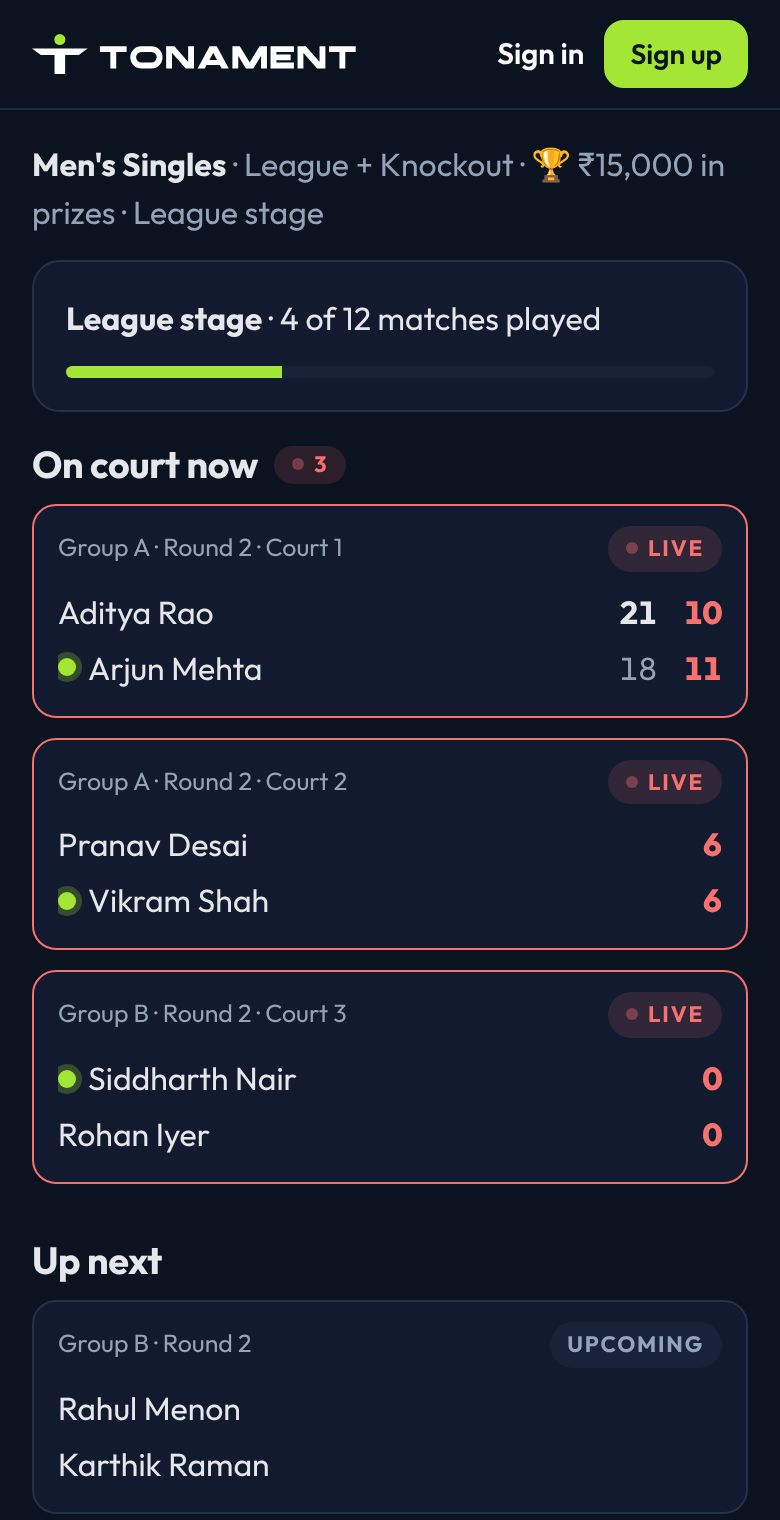
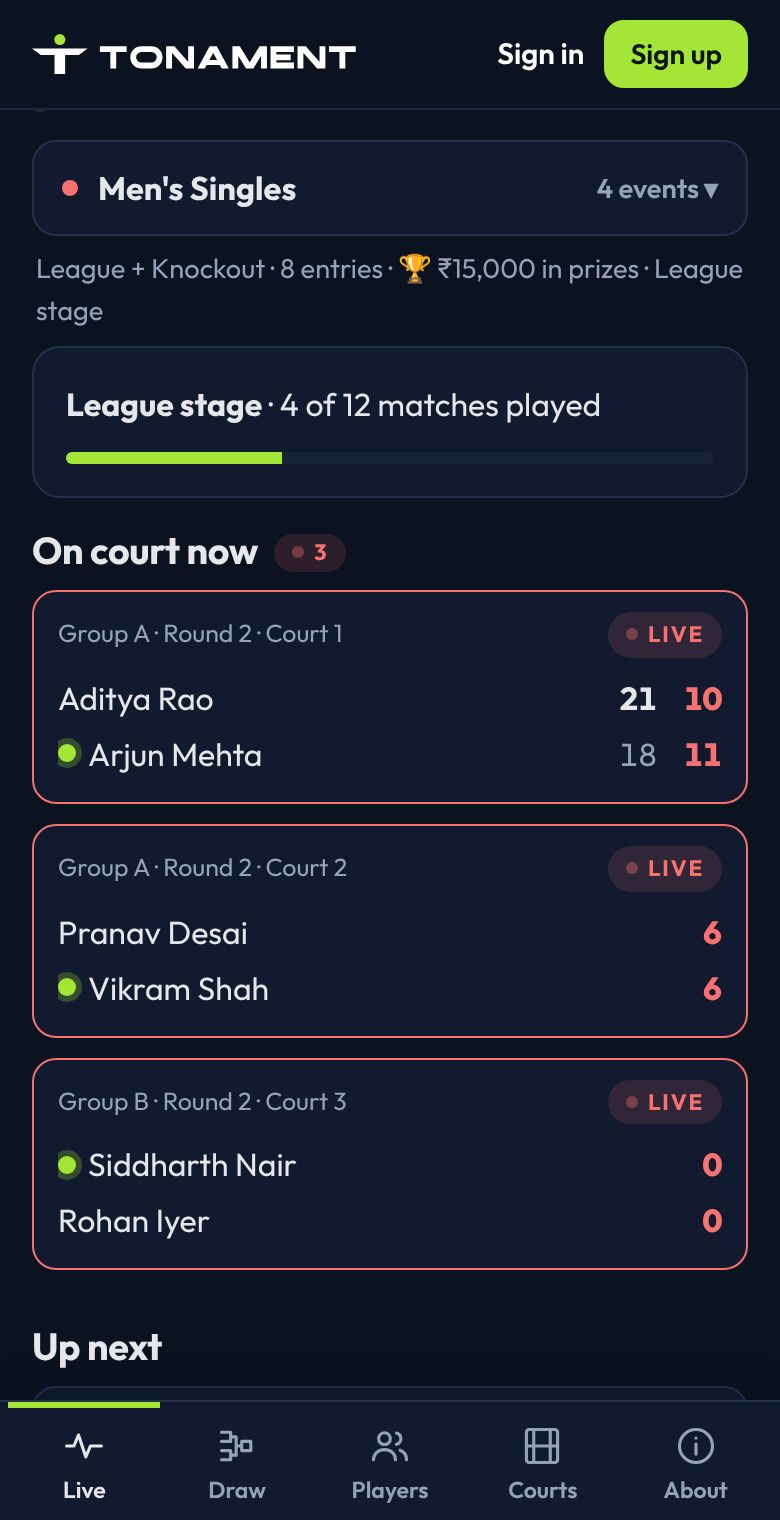
Guide screenshots for the new UI
- Re-shoot every guide image (both themes) with the Setup tab, one-line rows,
  the Draw tab, the event switcher and the bottom tab bar.
- New shots: setup, rowmenu (the ⋯ sheet), today (Next step), search, and
  group-admin (a group admin's Next step).
- How it works, Features and the entry-fees post describe the new UI.

Claude-Session: https://claude.ai/code/session_01DiU74KJ3FzPN7SFDZoyamV

diff --git a/public/how-it-works.html b/public/how-it-works.html
@@ -58,9 +58,9 @@
         <div class="step-text">
           <span class="step-no" aria-hidden="true">1</span>
           <h3>Create your tournament</h3>
-          <p>Three quick taps: pick the sport, pick your events — Men&#x27;s Singles, Mixed Doubles, U19, teams — then the name and date. A checklist on your tournament page walks you through the rest when you&#x27;re ready: venue, format, entry fee, prizes, courts and publishing.</p>
+          <p>Three quick taps: pick the sport, pick your events — Men&#x27;s Singles, Mixed Doubles, U19, teams — then the name and date. A checklist on your tournament page shows the next thing to do, and every setting — venue, format, entry fee, prizes, courts, your team — lives on one Setup tab.</p>
         </div>
-        <div class="step-shots"><figure class="shot"><img class="on-dark" src="/guide/create-dark.jpg" width="390" height="760" loading="lazy" alt="Creating a tournament: choosing the events with a tap"><img class="on-light" src="/guide/create-light.jpg" width="390" height="760" loading="lazy" alt="Creating a tournament: choosing the events with a tap"></figure></div>
+        <div class="step-shots"><figure class="shot"><img class="on-dark" src="/guide/create-dark.jpg" width="390" height="760" loading="lazy" alt="Creating a tournament: choosing the events with a tap"><img class="on-light" src="/guide/create-light.jpg" width="390" height="760" loading="lazy" alt="Creating a tournament: choosing the events with a tap"></figure><figure class="shot"><img class="on-dark" src="/guide/setup-dark.jpg" width="390" height="760" loading="lazy" alt="The Setup tab: format and scoring, with the event&#x27;s details folded away"><img class="on-light" src="/guide/setup-light.jpg" width="390" height="760" loading="lazy" alt="The Setup tab: format and scoring, with the event&#x27;s details folded away"></figure></div>
       </li>
       <li class="step">
         <div class="step-text">
@@ -74,15 +74,15 @@
         <div class="step-text">
           <span class="step-no" aria-hidden="true">3</span>
           <h3>Manage entries</h3>
-          <p>See who&#x27;s in, confirm places from the waitlist, pair up players looking for a doubles partner, and tick players in as they arrive. List order is the seeding.</p>
+          <p>See who&#x27;s in, confirm places from the waitlist, pair up players looking for a doubles partner, and tick players in as they arrive. One line per player: tap ⋯ to change the seeding, link their account or remove them — and Undo if you tapped the wrong one.</p>
         </div>
-        <div class="step-shots"><figure class="shot"><img class="on-dark" src="/guide/entries-dark.jpg" width="390" height="760" loading="lazy" alt="The organiser&#x27;s entry list with check-in ticks and a waitlisted player"><img class="on-light" src="/guide/entries-light.jpg" width="390" height="760" loading="lazy" alt="The organiser&#x27;s entry list with check-in ticks and a waitlisted player"></figure></div>
+        <div class="step-shots"><figure class="shot"><img class="on-dark" src="/guide/entries-dark.jpg" width="390" height="760" loading="lazy" alt="The organiser&#x27;s entry list with check-in ticks and a waitlisted player"><img class="on-light" src="/guide/entries-light.jpg" width="390" height="760" loading="lazy" alt="The organiser&#x27;s entry list with check-in ticks and a waitlisted player"></figure><figure class="shot"><img class="on-dark" src="/guide/rowmenu-dark.jpg" width="390" height="760" loading="lazy" alt="The ⋯ menu on a player: link players, move up or down, remove"><img class="on-light" src="/guide/rowmenu-light.jpg" width="390" height="760" loading="lazy" alt="The ⋯ menu on a player: link players, move up or down, remove"></figure></div>
       </li>
       <li class="step">
         <div class="step-text">
           <span class="step-no" aria-hidden="true">4</span>
           <h3>Make the draw</h3>
-          <p>Choose round-robin groups that feed a knockout, a league, or a straight knockout — the groups, fixtures and bracket are made in one tap, with byes for top seeds.</p>
+          <p>Choose round-robin groups that feed a knockout, a league, or a straight knockout — the groups, fixtures and bracket are made in one tap, with byes for top seeds, and sit together on the Draw tab.</p>
         </div>
         <div class="step-shots"><figure class="shot"><img class="on-dark" src="/guide/groups-dark.jpg" width="390" height="760" loading="lazy" alt="A group table with standings and fixtures"><img class="on-light" src="/guide/groups-light.jpg" width="390" height="760" loading="lazy" alt="A group table with standings and fixtures"></figure><figure class="shot"><img class="on-dark" src="/guide/bracket-dark.jpg" width="390" height="600" loading="lazy" alt="A knockout bracket with results"><img class="on-light" src="/guide/bracket-light.jpg" width="390" height="600" loading="lazy" alt="A knockout bracket with results"></figure></div>
       </li>
@@ -90,9 +90,9 @@
         <div class="step-text">
           <span class="step-no" aria-hidden="true">5</span>
           <h3>Run the courts</h3>
-          <p>Set up your courts and Tonament keeps one order of play across every event: call the next match to a free court in one tap, or let it call matches automatically. Players in two events are never called to two courts at once.</p>
+          <p>Set up your courts and Tonament keeps one order of play across every event: call the next match to a free court in one tap, or let it call matches automatically. Players in two events are never called to two courts at once. On the Live tab, a Next step card always shows what to do now — call a match, draw the knockout, start the next event.</p>
         </div>
-        <div class="step-shots"><figure class="shot"><img class="on-dark" src="/guide/courts-dark.jpg" width="390" height="760" loading="lazy" alt="The Courts tab: what&#x27;s on each court and the order of play"><img class="on-light" src="/guide/courts-light.jpg" width="390" height="760" loading="lazy" alt="The Courts tab: what&#x27;s on each court and the order of play"></figure></div>
+        <div class="step-shots"><figure class="shot"><img class="on-dark" src="/guide/courts-dark.jpg" width="390" height="760" loading="lazy" alt="The Courts tab: what&#x27;s on each court and the order of play"><img class="on-light" src="/guide/courts-light.jpg" width="390" height="760" loading="lazy" alt="The Courts tab: what&#x27;s on each court and the order of play"></figure><figure class="shot"><img class="on-dark" src="/guide/today-dark.jpg" width="390" height="760" loading="lazy" alt="The Next step card: Court 4 is free, call the next match"><img class="on-light" src="/guide/today-light.jpg" width="390" height="760" loading="lazy" alt="The Next step card: Court 4 is free, call the next match"></figure></div>
       </li>
       <li class="step">
         <div class="step-text">
@@ -116,12 +116,12 @@
           <p>Create a free account once, then enter in seconds: your name is filled in, add a partner for doubles — or ask to be paired with someone.</p>
           <span class="step-no" aria-hidden="true">3</span>
           <h3>Follow your matches</h3>
-          <p>On the day, see the order of play, when you're likely on and which court, and follow every point live.</p>
+          <p>On the day, tap 🔍 and type your name to see your matches — live, next and played — when you're likely on and which court, and follow every point live.</p>
           <span class="step-no" aria-hidden="true">4</span>
           <h3>Keep track</h3>
           <p>"My entries" on the home page shows every tournament you've entered and where your entry stands. Plans changed? Withdraw before the draw.</p>
         </div>
-        <div class="step-shots"><figure class="shot"><img class="on-dark" src="/guide/enter-dark.jpg" width="390" height="760" loading="lazy" alt="A player entering doubles with their partner"><img class="on-light" src="/guide/enter-light.jpg" width="390" height="760" loading="lazy" alt="A player entering doubles with their partner"></figure></div>
+        <div class="step-shots"><figure class="shot"><img class="on-dark" src="/guide/enter-dark.jpg" width="390" height="760" loading="lazy" alt="A player entering doubles with their partner"><img class="on-light" src="/guide/enter-light.jpg" width="390" height="760" loading="lazy" alt="A player entering doubles with their partner"></figure><figure class="shot"><img class="on-dark" src="/guide/search-dark.jpg" width="390" height="760" loading="lazy" alt="Search: a player&#x27;s live, upcoming and played matches"><img class="on-light" src="/guide/search-light.jpg" width="390" height="760" loading="lazy" alt="Search: a player&#x27;s live, upcoming and played matches"></figure></div>
       </li>
     </ol>
 

diff --git a/public/features.html b/public/features.html
@@ -94,21 +94,21 @@
         <div class="step-text">
           <p class="eyebrow">New · On the day</p>
           <h2>Late players? No problem.</h2>
-          <p>Tap <strong>Not here</strong> and their match waits while the next ready match goes on court; <strong>Here ✓</strong> brings them back. Never came? Give the walkover. Injured mid-match? Retire, with the score kept.</p>
+          <p>A <strong>Next step</strong> card on the Live tab always shows what to do now — call the next match to a free court, draw the knockout, start the next event. Tap <strong>Not here</strong> and their match waits while the next ready match goes on court; <strong>Here ✓</strong> brings them back. Never came? Give the walkover. Injured mid-match? Retire, with the score kept.</p>
           <p>A substitute partner is a rename. A pair who entered but missed the draw joins a group with catch-up matches, and walk-ins pay by UPI or cash at the desk — the order of play adjusts itself every time.</p>
           <p><a href="/blog/running-tournament-day">Running the day, step by step →</a></p>
         </div>
-        <div class="step-shots"><figure class="shot"><img class="on-dark" src="/guide/onday-dark.jpg" width="390" height="760" loading="lazy" alt="Courts and the order of play: a pair marked not here yet waits, with Here and Walkover buttons"><img class="on-light" src="/guide/onday-light.jpg" width="390" height="760" loading="lazy" alt="Courts and the order of play: a pair marked not here yet waits, with Here and Walkover buttons"></figure></div>
+        <div class="step-shots"><figure class="shot"><img class="on-dark" src="/guide/onday-dark.jpg" width="390" height="760" loading="lazy" alt="Courts and the order of play: a pair marked not here yet waits, with Here and Walkover buttons"><img class="on-light" src="/guide/onday-light.jpg" width="390" height="760" loading="lazy" alt="Courts and the order of play: a pair marked not here yet waits, with Here and Walkover buttons"></figure><figure class="shot"><img class="on-dark" src="/guide/today-dark.jpg" width="390" height="760" loading="lazy" alt="The Next step card: Court 4 is free, call the next match"><img class="on-light" src="/guide/today-light.jpg" width="390" height="760" loading="lazy" alt="The Next step card: Court 4 is free, call the next match"></figure></div>
       </li>
       <li class="step" id="groups">
         <div class="step-text">
           <p class="eyebrow">New · Groups</p>
           <h2>Your daily games, sorted</h2>
           <p>For the people you play with every day. Share one link in your WhatsApp group: players tap "I'm in" and say when they're coming, so everyone sees how many will be there and when.</p>
-          <p>At the court they check in and get fair games picked for them — fewest games first, balanced teams, new partners. Score live or add the result at the end; the other side confirms it, so there are no arguments, and every confirmed game moves the group leaderboard.</p>
+          <p>At the court they check in (or the admin marks who's here) and get fair games picked for them — fewest games first, balanced teams, new partners. Score live or add the result at the end; the other side confirms it, so there are no arguments, and every confirmed game moves the group leaderboard.</p>
           <p><strong>Venues and academies</strong> post daily slots by level — Beginners at 6, Intermediates at 7 — on their own page. Players join in one tap, and the attendance tab shows who actually turned up.</p>
         </div>
-        <div class="step-shots"><figure class="shot"><img src="/guide/group-rsvp-dark.jpg" width="358" height="427" loading="lazy" alt="A group session: I'm in, coming at 7:30 pm, and who else is coming"></figure><figure class="shot"><img src="/guide/venue-slots-dark.jpg" width="390" height="565" loading="lazy" alt="A venue page with daily slots for beginners, intermediates and advanced players"></figure></div>
+        <div class="step-shots"><figure class="shot"><img src="/guide/group-rsvp-dark.jpg" width="358" height="427" loading="lazy" alt="A group session: I'm in, coming at 7:30 pm, and who else is coming"></figure><figure class="shot"><img src="/guide/venue-slots-dark.jpg" width="390" height="565" loading="lazy" alt="A venue page with daily slots for beginners, intermediates and advanced players"></figure><figure class="shot"><img class="on-dark" src="/guide/group-admin-dark.jpg" width="390" height="760" loading="lazy" alt="A group admin&#x27;s Next step: Court 1 is free, start the suggested game"><img class="on-light" src="/guide/group-admin-light.jpg" width="390" height="760" loading="lazy" alt="A group admin&#x27;s Next step: Court 1 is free, start the suggested game"></figure></div>
       </li>
       <li class="step step-wide">
         <div class="step-text">

diff --git a/scripts/guide-shots.js b/scripts/guide-shots.js
@@ -115,6 +115,14 @@ async function main() {
     for (const side of game(i ? 'b' : 'a', 16 + i, seed++) + game(i ? 'b' : 'a', 13 + i, seed++)) await svc.rally(id, ORG, m.id, side);
   }
 
+  // A group on today with its admin: 4 players checked in, both courts free.
+  const t0 = new Date(Date.now() - 3600000);
+  const nowTime = new Intl.DateTimeFormat('en-GB', { timeZone: 'Asia/Kolkata', hour: '2-digit', minute: '2-digit', hourCycle: 'h23' }).format(t0);
+  const { slug } = await svc.groups.createGroup(ORG, { name: 'Evening Smashers', sport: 'badminton', city: 'Chennai', venue: 'Anna Nagar Indoor Arena', courts: 2, days: [0, 1, 2, 3, 4, 5, 6], time: nowTime, hours: 3, timeZone: 'Asia/Kolkata' });
+  await svc.groups.addGuests(slug, ORG, { names: ['Arjun Mehta', 'Rohan Iyer', 'Karthik Raman', 'Vikram Shah', 'Aditya Rao', 'Rahul Menon'] });
+  const g = await svc.groups.view(slug, ORG);
+  for (const r of g.leaderboard.filter((x) => x.guest).slice(0, 4)) await svc.groups.checkIn(slug, ORG, g.session.id, true, r.id);
+
   // ----- screenshots
   const shots = [];
   for (const theme of ['dark', 'light']) {
@@ -148,6 +156,20 @@ async function main() {
     // 3. Organiser's Players tab (Women's Singles, still open)
     await o.goto(`${base}/t/${id}/entries?e=${ws}`); await o.waitForSelector('.entries');
     await snap(o, 'entries', { scrollTo: '.card:has(h2:text-matches("^Entries"))', top: 70 });
+    // The ⋯ menu on a player row
+    await o.click('.entries li:nth-child(2) .more-btn'); await o.waitForSelector('.action-sheet');
+    await snap(o, 'rowmenu');
+    await o.keyboard.press('Escape');
+    // Setup: every setting in one place
+    await o.goto(`${base}/t/${id}/setup?s=format&e=${ws}`); await o.waitForSelector('.setup-nav');
+    await snap(o, 'setup', { scrollTo: '.setup-nav', top: 70 });
+    // Today: the organiser's Next step on Live
+    await o.goto(`${base}/t/${id}/live?e=${ms}`); await o.waitForSelector('.next-step');
+    await snap(o, 'today', { scrollTo: '.event-picker', top: 70 });
+    // Search: a player and their matches
+    await o.click('.t-search'); await o.fill('.search-q', 'Arjun'); await o.waitForSelector('.search-hit');
+    await snap(o, 'search');
+    await o.keyboard.press('Escape');
     // 5. Courts
     await o.goto(`${base}/t/${id}/courts`); await o.waitForSelector('.court-card');
     await snap(o, 'courts', { scrollTo: '.court-grid', top: 70 });
@@ -155,10 +177,14 @@ async function main() {
     await o.goto(`${base}/t/${id}/m/${liveId}`); await o.waitForSelector('.score-btn');
     await snap(o, 'umpire', { scrollTo: '.scoreboard', top: 60 });
     // 4. Groups and bracket
-    await o.goto(`${base}/t/${id}/groups?e=${ms}`); await o.waitForSelector('.groups-grid');
+    await o.goto(`${base}/t/${id}/draw?e=${ms}`); await o.waitForSelector('.draw-seg');
+    await o.click('.draw-seg button:has-text("Groups")'); await o.waitForSelector('.groups-grid');
     await snap(o, 'groups', { scrollTo: '.groups-grid', top: 70 });
-    await o.goto(`${base}/t/${id}/bracket?e=${xd}`); await o.waitForSelector('.bracket, .rounds, .b-round');
-    await snap(o, 'bracket', { scrollTo: '.event-title', top: 70, height: 600 });
+    await o.goto(`${base}/t/${id}/draw?e=${xd}`); await o.waitForSelector('.bracket');
+    await snap(o, 'bracket', { scrollTo: '.event-picker', top: 70, height: 600 });
+    // A group admin's Today: Next step "Court 1 is free"
+    await o.goto(`${base}/g/${slug}`); await o.waitForSelector('.next-step');
+    await snap(o, 'group-admin', { scrollTo: '.next-step', top: 70 });
     await o.context().close();
 
     // 2. Public page and 6. live, as a visitor
@@ -166,7 +192,7 @@ async function main() {
     await v.goto(`${base}/t/${id}/entries?e=${ws}`); await v.waitForSelector('.entry-card');
     await snap(v, 'public', { scrollTo: '.t-header', top: 64 });
     await v.goto(`${base}/t/${id}/live?e=${ms}`); await v.waitForSelector('.match-card');
-    await snap(v, 'live', { scrollTo: '.event-title', top: 70 });
+    await snap(v, 'live', { scrollTo: '.event-picker', top: 70 });
     await v.context().close();
 
     // Player: the entry form, prefilled

diff --git a/scripts/hero-shots.js b/scripts/hero-shots.js
@@ -42,7 +42,7 @@ const OUT = path.join(__dirname, '..', 'public', 'guide'); const W = 390;
     const [n, v] = cookie.split('='); await c.addCookies([{ name: n, value: v, url: base }]);
     const p = await c.newPage();
     const snap = async (name, sel, top = 70) => { await p.locator(sel).first().evaluate((el, off) => window.scrollTo(0, el.getBoundingClientRect().top + window.scrollY - off), top); await p.waitForTimeout(500); await p.screenshot({ path: path.join(OUT, `${name}-${theme}.jpg`), type: 'jpeg', quality: 80 }); };
-    await p.goto(`${base}/t/${id}/groups`); await p.waitForSelector('.groups-grid'); await p.evaluate(() => document.querySelectorAll('.groups-grid details').forEach((d) => { d.open = false; })); await snap('pools', '.groups-grid');
+    await p.goto(`${base}/t/${id}/draw`); await p.waitForSelector('.groups-grid'); await p.evaluate(() => document.querySelectorAll('.groups-grid details').forEach((d) => { d.open = false; })); await snap('pools', '.groups-grid');
     await p.goto(`${base}/t/${id}/courts`); await p.waitForSelector('.court-card'); await snap('onday', '.court-grid');
     
   }

diff --git a/content/blog/collecting-entry-fees-upi.md b/content/blog/collecting-entry-fees-upi.md
@@ -45,7 +45,7 @@ If you change the fee on the day (a late-entry fee, say), apply it only to peopl
 
 Tonament puts all of this on the Players tab — and **never handles the money**: players pay you directly.
 
-1. **Set the fee** for each event in Tournament settings → Entry fees, with your UPI ID, the payee name, and (optionally) your UPI QR code and a note like "cash is also fine at the desk".
+1. **Set the fee** for each event in Setup › Dates, venue & fees, with your UPI ID, the payee name, and (optionally) your UPI QR code and a note like "cash is also fine at the desk".
 2. **Players enter**, and their UPI app opens with your UPI ID and the amount filled in. On a computer they scan your QR code. They tap **I've paid** and can add the 12-digit UPI reference.
 3. **You confirm** each payment from the "Payments to check" list: **Received**, **Not received**, **Paid in cash** or **Waive**. Their place is confirmed.
 4. **Places are held** for 24 hours, 48 hours or until entries close while unpaid — your choice.
